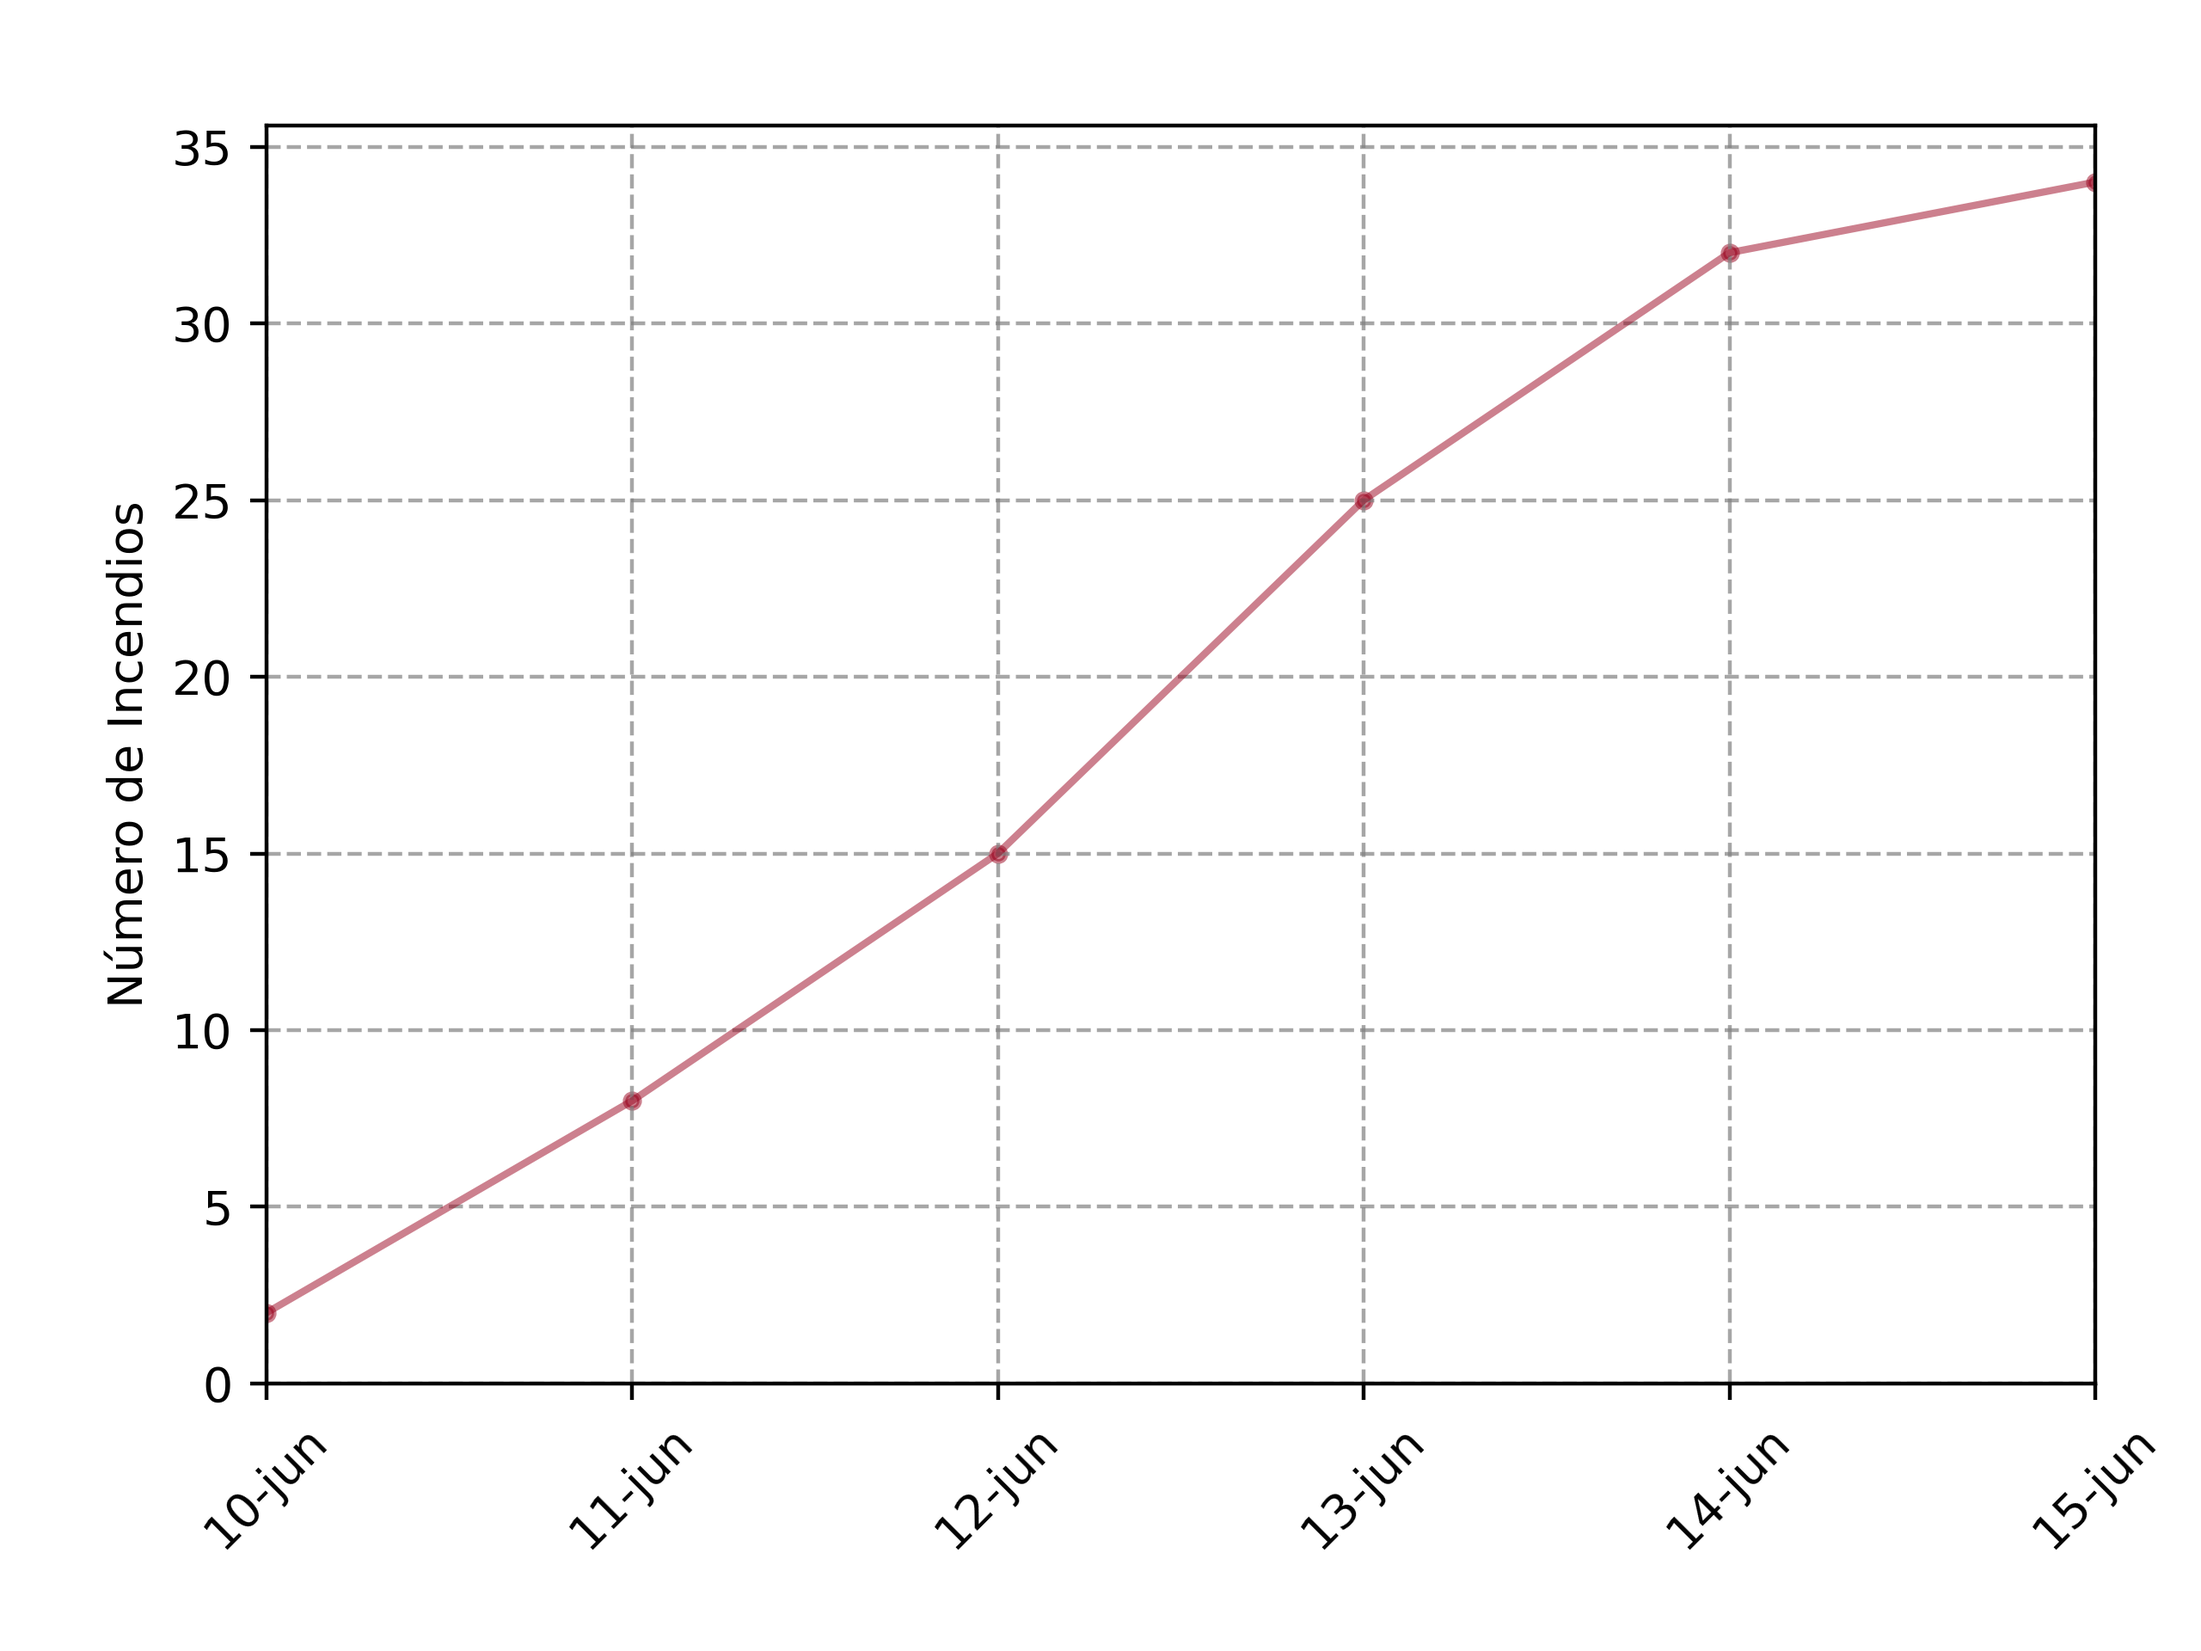
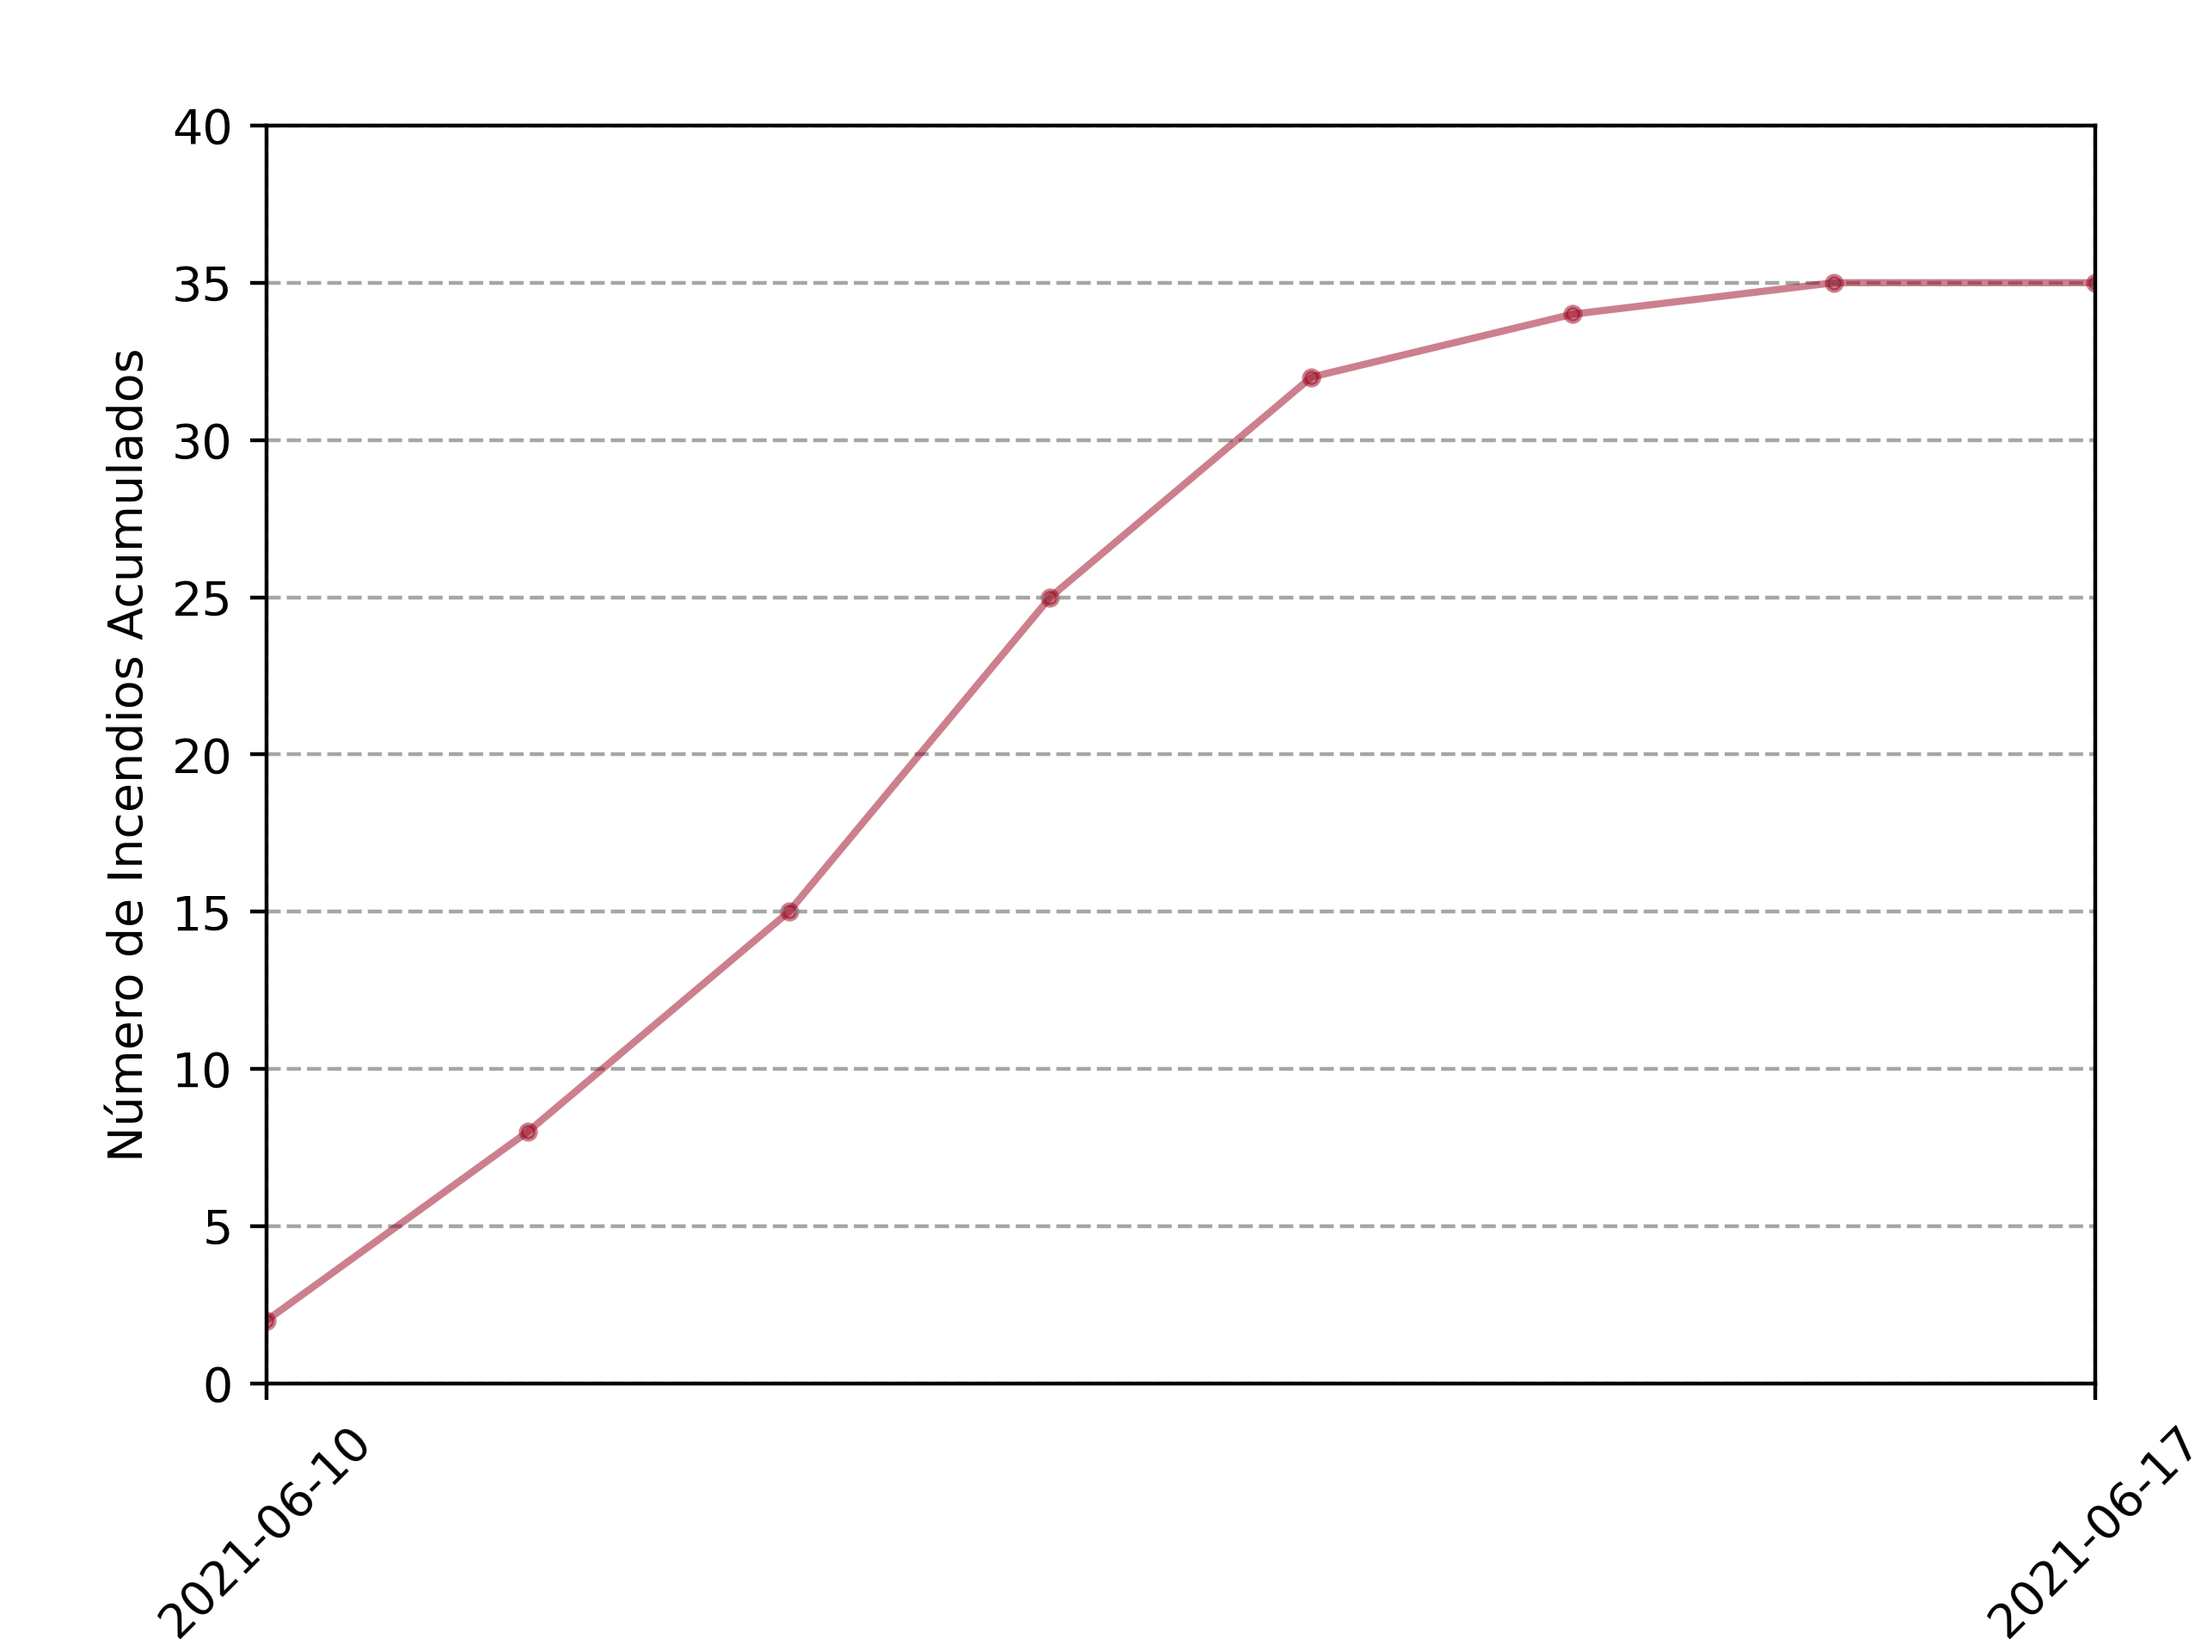
Change structure to integrate git branches

diff --git a/Scripts/Graphics_Fire_Accumulative.py b/Scripts/Graphics_Fire_Accumulative.py
@@ -1,6 +1,4 @@
-import matplotlib.pyplot as plt
-import pandas as pd
-import numpy as np
+from Class_list import *
 
 
 def obtain_ticks(data, day_separation):
@@ -23,32 +21,32 @@ def obtain_ticks(data, day_separation):
 
 
 def format_data(data):
-    data.index = pd.to_datetime(data["Dates"]).dt.strftime("%d-%b")
+    data.index = pd.to_datetime(data["Dates"])
     data = data.drop("Dates", 1)
     return data
 
 
-inputs = {
-    "path data": "../Data/",
-    "path graphics": "../Graphics/",
+parameters = {
     "file data": "NI.csv",
     "file results": "NIA.csv",
     "graphics file": "Fire_Accumulative.png",
-    "city": "Nuevo_Leon",
+    "City name": "Parana_2021_Jun",
     "Days separation": 7,
+    "Y limit": 40,
+    "Delta y": 5,
 }
+# Lectura de los parametros de cada ciudad
+city = city_list(city=parameters["City name"])
 # Lectura de los datos
-data = pd.read_csv("{}{}/{}".format(inputs["path data"],
-                                    inputs["city"],
-                                    inputs["file data"]))
+data = pd.read_csv("{}{}".format(city.parameters["path data"],
+                                 parameters["file data"]))
 data = format_data(data)
 data["NIA"] = data.cumsum()
-data.to_csv("{}{}/{}".format(inputs["path data"],
-                             inputs["city"],
-                             inputs["file results"]))
+data.to_csv("{}{}".format(city.parameters["path data"],
+                          parameters["file results"]))
 # Extraccion de las fechas seleccionadas
 dates = obtain_ticks(data,
-                     inputs["Days separation"])
+                     parameters["Days separation"])
 # Limites de las graficas
 plt.subplots_adjust(left=0.121,
                     right=0.952,
@@ -65,21 +63,21 @@ plt.scatter(data.index, list(data["NIA"]),
 # Limites de las graficas
 plt.xlim(dates[0],
          dates[-1])
-plt.ylim(0)
+plt.ylim(0,
+         parameters["Y limit"])
 # Etiqueta en el eje y
 plt.ylabel("Número de Incendios Acumulados")
 # Cambio en las etiquetas de los ejes x y y
 plt.xticks(dates,
            rotation=45)
 plt.yticks(np.arange(0,
-                     2500+250,
-                     250))
+                     parameters["Y limit"]+parameters["Delta y"],
+                     parameters["Delta y"]))
 # Creación del grid
 plt.grid(ls="--",
          color="grey",
          alpha=0.7)
 # Guardado de la grafica
-plt.savefig("{}{}/{}".format(inputs["path graphics"],
-                             inputs["city"],
-                             inputs["graphics file"]),
+plt.savefig("{}{}".format(city.parameters["path graphics"],
+                          parameters["graphics file"]),
             dpi=400)

diff --git a/Scripts/Graphics_Bar_confidence.py b/Scripts/Graphics_Bar_confidence.py
@@ -25,20 +25,15 @@ def autolabel(ax, rects):
                     ha='center', va='bottom',)
 
 
-inputs = {
+parameters = {
     "graphics name": "Bar_Confidence_percentage.png",
-    "City name": "Nuevo Leon",
+    "City name": "Parana_2021_Jun",
 }
 # Lectura de los parametros de cada ciudad
-citys = city_list()
-parameters = citys.select_city_parameters(inputs["City name"])
+city = city_list(city=parameters["City name"])
 # Lectura de los datos de FIRMS
-FIRMS = FIRMS_data(parameters["path data"],
-                   parameters["file data"],
-                   parameters["lon"],
-                   parameters["lat"],
-                   parameters["day initial"],
-                   parameters["day final"])
+FIRMS = FIRMS_data(parameters=city.parameters,
+                   select_nominal_data=False)
 # Conteo de datos para cada tipo de dato
 count_confidence = count_data_confidence(FIRMS.data)
 # Ploteo de cada columna
@@ -47,10 +42,9 @@ rect = ax.bar(count_confidence.index, count_confidence, 0.75)
 autolabel(ax, rect)
 rect[0].set_color("#22577a")
 rect[1].set_color("#38a3a5")
-rect[2].set_color("#57cc99")
+# rect[2].set_color("#57cc99")
 ax.set_ylim(0, 100)
 ax.set_ylabel("Frecuencia de intervalo de confianza (%)")
 ax.set_xlabel("nivel de confianza")
-plt.savefig("{}{}/{}".format(parameters["path graphics"],
-                             parameters["city"],
-                             inputs["graphics name"]))
+plt.savefig("{}{}".format(city.parameters["path graphics"],
+                          parameters["graphics name"]))

diff --git a/Scripts/Class_list.py b/Scripts/Class_list.py
@@ -16,7 +16,7 @@ class city_list:
                 "lat": [-33.5, -32.5],
                 "delta": 0.25,
             },
-            "Parana_2021": {
+            "Parana_2021_May": {
                 "day initial": "2021-05-01",
                 "day final": "2021-06-01",
                 "lon": [-60.75, -60],
@@ -46,9 +46,6 @@ class city_list:
 
     def select_city_parameters(self, city_name=""):
         self.parameters.update(self.citys[city_name])
-        self.parameters["city"] = city_name
-        self.parameters["path data"] += city_name+"/"
-        self.parameters["path graphics"] += city_name+"/"
 
 
 class FIRMS_data:

diff --git a/Scripts/Fire_count.py b/Scripts/Fire_count.py
@@ -1,6 +1,6 @@
 from Class_list import *
 inputs = {
-    "City name": "Nuevo_Leon",
+    "City name": "Parana_2021_Jun",
     "Number color": "white",
     "Select nominal data": True,
 }
